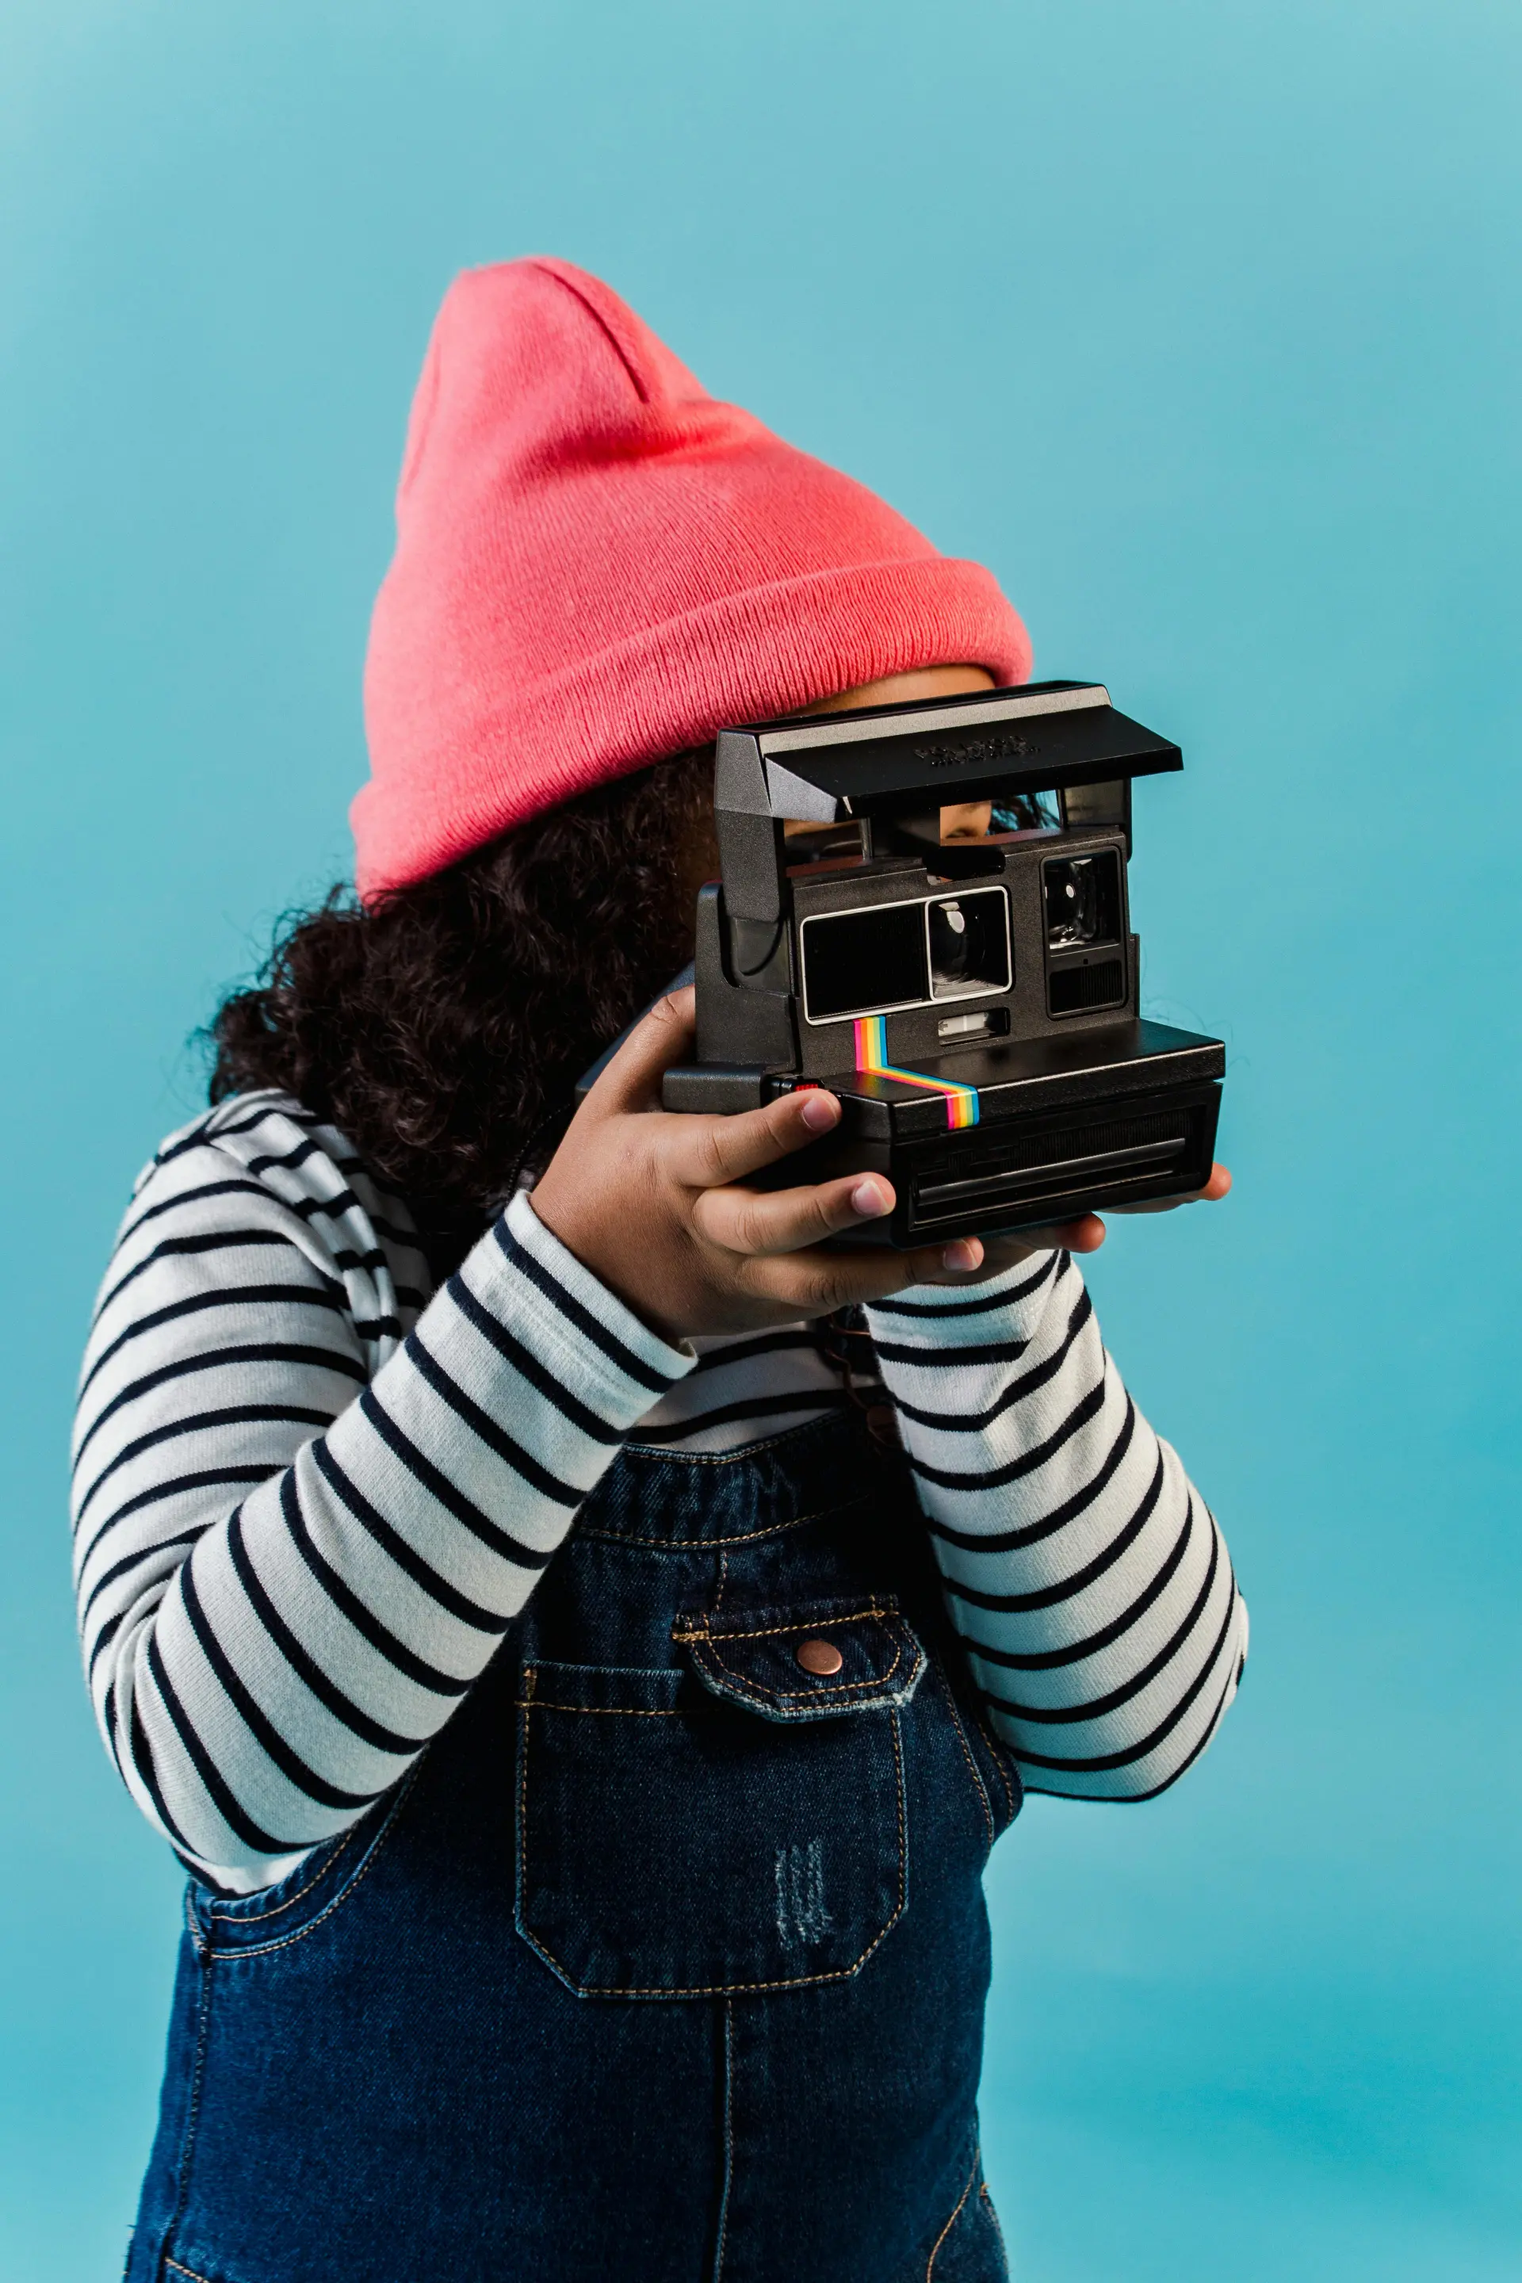
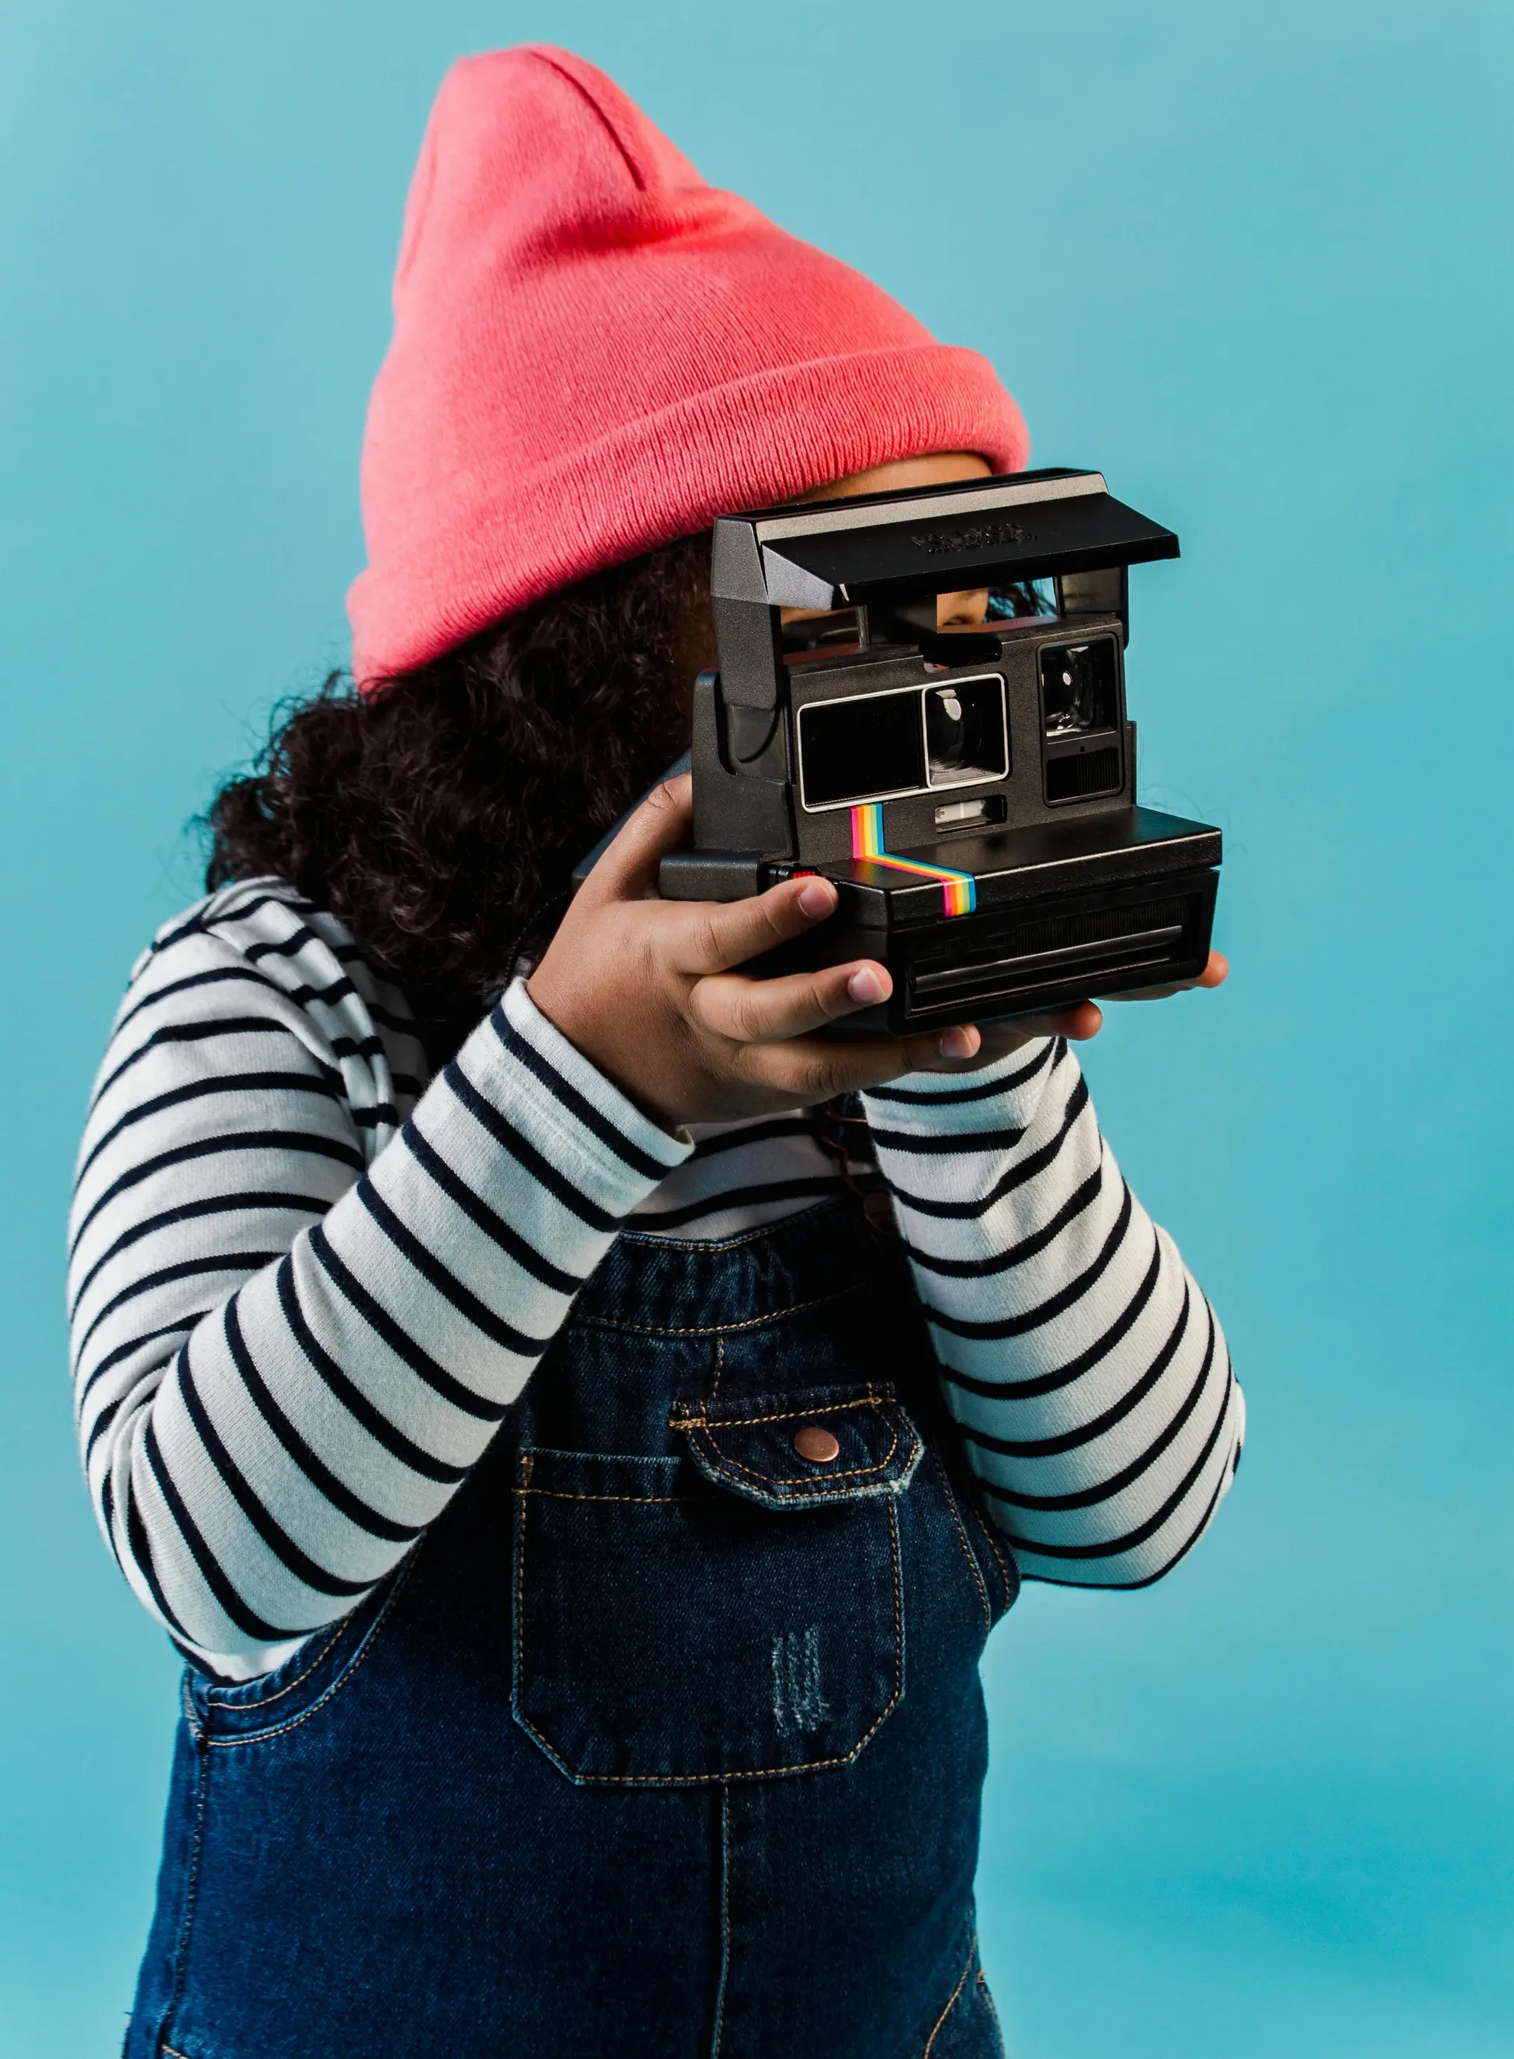
Style homepage for medium size devises

diff --git a/home/templates/home/index.html b/home/templates/home/index.html
@@ -30,14 +30,14 @@
 {% endblock %}
 
 {% block content %}
-    <!-- About and subscription section -->
+    <!-- About section -->
     <section id="about-subscription">
         <div class="container">
-            <div class="car-deck row">
+            <div class="row">
                 <div class="col-md-6 my-auto about">
                     <div class="card">
-                        <div class="card-body">
-                            <h2 class="card-title">
+                        <div class="card-body about-usp">
+                            <h2 class="card-title text-center about-us">
                                 About Us
                             </h2>
                             <p class="card-text about-reg">
@@ -49,97 +49,96 @@
                                 to explore our selection and find something truly special. Join us on this 
                                 journey through time and discover the magic of vintage.
                             </p>
-                            <p class="ml-3 mt-5 advantage">
+                            <p class="mt-5 advantage">
                                 <strong>In Order to Take Full Advantage of Our Site, Register Today and Enjoy These Exclusive Benefits:</strong>
                             </p>
                             <ul class="about-reg mt-5">
                                 <li>Special Offers:
                                     Gain access to exclusive special offers, including early bird discounts, flash sales, and unique deals that are not available to the general public.
                                 </li>
-                                <li>Personalized Discounts:
+                                <li class="mt-3">Personalized Discounts:
                                     Receive personalized discount codes and promotional offers tailored to your shopping habits, helping you save more on the items you love most.
                                 </li>
-                                <li>First Look at New Arrivals:
+                                <li class="mt-3">First Look at New Arrivals:
                                     Be the first to know about our latest products and get early access to new arrivals, ensuring you stay ahead of the trends.
                                 </li>
-                                <li>Reward Points Program:
+                                <li class="mt-3">Reward Points Program:
                                     Earn points every time you shop, leave a review, or refer a friend. Redeem these points for discounts on future purchases, giving you more reasons to shop with us.
                                 </li>
-                                <li>Hassle-Free Checkout:
+                                <li class="mt-3">Hassle-Free Checkout:
                                     Save your shipping and payment information for a quicker, easier checkout experience. Additionally, track your orders and view your purchase history all in one convenient place.
                                 </li>
                             </ul>
                         </div>
                     </div>
                 </div>
-                <div class="col-md-6 my-auto">
-                    <div class="card">
-                        <div class="card-body second-section">
-                            <div class="col-md-6 homeimg2">
-                                <img class="homepic2" src="{% static 'images/vintage-home.webp' %}" alt="Girl holding an old camera">
-                            </div>
-                        </div>
-                    </div>
+                <div class="col-md-6 my-auto homeimg2">
+                    <img class="homepic2" src="{% static 'images/vintage-home.webp' %}" alt="Girl holding an old camera">
                 </div>
-                <div class="col-md-6 my-auto">
-                    <div class="card">
-                        <div class="card-body subscribe" id="mc_embed_shell">
-                            <div class="subscribe-header">
-                                <h2 class="card-title">
-                                    Loved Our Products?
-                                </h2>
-                                <p class="card-text">
-                                    Get our latest arrivals, offers tips and much more. 
-                                </p>
-                            </div>
-                            <link href="//cdn-images.mailchimp.com/embedcode/classic-061523.css" rel="stylesheet" type="text/css">
-                            <style type="text/css">
-                                    #mc_embed_signup{background:#fff; false;clear:left; font:14px Helvetica,Arial,sans-serif; width: 600px;}
-                                    /* Add your own Mailchimp form style overrides in your site stylesheet or in this style block.
-                                    We recommend moving this block and the preceding CSS link to the HEAD of your HTML file. */
-                            </style>
-                            <div id="mc_embed_signup">
-                                <form action="https://herokuapp.us17.list-manage.com/subscribe/post?u=7719ad4a05a4dcedbd48b3364&amp;id=be208aabce&amp;f_id=00b088e2f0" method="post" id="mc-embedded-subscribe-form" name="mc-embedded-subscribe-form" class="validate" target="_blank">
-                                    <div id="mc_embed_signup_scroll"><h2>Subscribe</h2>
-                                        <div class="indicates-required">
-                                            <span class="asterisk">*</span> indicates required
-                                        </div>
-                                        <div class="mc-field-group">
-                                            <label for="mce-EMAIL">Email Address <span class="asterisk">*</span></label><input type="email" name="EMAIL" class="required email" id="mce-EMAIL" required="" value="">
-                                        </div>
-                                        <div id="mce-responses" class="clear foot">
-                                            <div class="response" id="mce-error-response" style="display: none;"></div>
-                                            <div class="response" id="mce-success-response" style="display: none;"></div>
-                                        </div>
-                                        <div style="position: absolute; left: -5000px;" aria-hidden="true">
-                                            /* real people should not fill this in and expect good things - do not remove this or risk form bot signups */
-                                            <input type="text" name="b_7719ad4a05a4dcedbd48b3364_be208aabce" tabindex="-1" value="">
-                                        </div>
-                                        <div class="optionalParent">
-                                            <div class="clear foot">
-                                                <input type="submit" name="subscribe" id="mc-embedded-subscribe" class="button" value="Subscribe">
-                                                <p style="margin: 0px auto;"><a href="http://eepurl.com/iQt5FM" title="Mailchimp - email marketing made easy and fun"><span style="display: inline-block; background-color: transparent; border-radius: 4px;"><img class="refferal_badge" src="https://digitalasset.intuit.com/render/content/dam/intuit/mc-fe/en_us/images/intuit-mc-rewards-text-dark.svg" alt="Intuit Mailchimp" style="width: 220px; height: 40px; display: flex; padding: 2px 0px; justify-content: center; align-items: center;"></span></a></p>
-                                            </div>
+            </div>
+        </div>
+    </section>
+    <!-- Subscription section -->
+    <section id="subscription">
+        <div class="row">
+            <div class="col-12 my-auto sub-col">
+                <div class="card sub-card">
+                    <div class="card-body subscribe" id="mc_embed_shell">
+                        <div class="subscribe-header">
+                            <h2 class="card-title">
+                                Loved Our Products?
+                            </h2>
+                            <p class="card-text">
+                                Get our latest arrivals, offers tips and much more. 
+                            </p>
+                        </div>
+                        <link href="//cdn-images.mailchimp.com/embedcode/classic-061523.css" rel="stylesheet" type="text/css">
+                        <style type="text/css">
+                                #mc_embed_signup{background:#fff; false;clear:left; font:14px Helvetica,Arial,sans-serif; width: 600px;}
+                                /* Add your own Mailchimp form style overrides in your site stylesheet or in this style block.
+                                We recommend moving this block and the preceding CSS link to the HEAD of your HTML file. */
+                        </style>
+                        <div id="mc_embed_signup">
+                            <form action="https://herokuapp.us17.list-manage.com/subscribe/post?u=7719ad4a05a4dcedbd48b3364&amp;id=be208aabce&amp;f_id=00b088e2f0" method="post" id="mc-embedded-subscribe-form" name="mc-embedded-subscribe-form" class="validate" target="_blank">
+                                <div id="mc_embed_signup_scroll"><h2>Subscribe</h2>
+                                    <div class="indicates-required">
+                                        <span class="asterisk">*</span> indicates required
+                                    </div>
+                                    <div class="mc-field-group">
+                                        <label for="mce-EMAIL">Email Address <span class="asterisk">*</span></label><input type="email" name="EMAIL" class="required email" id="mce-EMAIL" required="" value="">
+                                    </div>
+                                    <div id="mce-responses" class="clear foot">
+                                        <div class="response" id="mce-error-response" style="display: none;"></div>
+                                        <div class="response" id="mce-success-response" style="display: none;"></div>
+                                    </div>
+                                    <div style="position: absolute; left: -5000px;" aria-hidden="true">
+                                        /* real people should not fill this in and expect good things - do not remove this or risk form bot signups */
+                                        <input type="text" name="b_7719ad4a05a4dcedbd48b3364_be208aabce" tabindex="-1" value="">
+                                    </div>
+                                    <div class="optionalParent">
+                                        <div class="clear foot">
+                                            <input type="submit" name="subscribe" id="mc-embedded-subscribe" class="button" value="Subscribe">
+                                            <p style="margin: 0px auto;"><a href="http://eepurl.com/iQt5FM" title="Mailchimp - email marketing made easy and fun"><span style="display: inline-block; background-color: transparent; border-radius: 4px;"><img class="refferal_badge" src="https://digitalasset.intuit.com/render/content/dam/intuit/mc-fe/en_us/images/intuit-mc-rewards-text-dark.svg" alt="Intuit Mailchimp" style="width: 220px; height: 40px; display: flex; padding: 2px 0px; justify-content: center; align-items: center;"></span></a></p>
                                         </div>
                                     </div>
-                                </form>
-                            </div>
-                            <script type="text/javascript" src="//s3.amazonaws.com/downloads.mailchimp.com/js/mc-validate.js"></script>
-                            <script type="text/javascript">
-                            (function($) {
-                                window.fnames = new Array(); 
-                                window.ftypes = new Array();
-                                fnames[0]='EMAIL';ftypes[0]='email';
-                                fnames[1]='FNAME';ftypes[1]='text';
-                                fnames[2]='LNAME';ftypes[2]='text';
-                                fnames[3]='ADDRESS';ftypes[3]='address';
-                                fnames[4]='PHONE';ftypes[4]='phone';
-                                fnames[5]='BIRTHDAY';
-                                ftypes[5]='birthday';
-                                }(jQuery));
-                                var $mcj = jQuery.noConflict(true);
-                            </script>
+                                </div>
+                            </form>
                         </div>
+                        <script type="text/javascript" src="//s3.amazonaws.com/downloads.mailchimp.com/js/mc-validate.js"></script>
+                        <script type="text/javascript">
+                        (function($) {
+                            window.fnames = new Array(); 
+                            window.ftypes = new Array();
+                            fnames[0]='EMAIL';ftypes[0]='email';
+                            fnames[1]='FNAME';ftypes[1]='text';
+                            fnames[2]='LNAME';ftypes[2]='text';
+                            fnames[3]='ADDRESS';ftypes[3]='address';
+                            fnames[4]='PHONE';ftypes[4]='phone';
+                            fnames[5]='BIRTHDAY';
+                            ftypes[5]='birthday';
+                            }(jQuery));
+                            var $mcj = jQuery.noConflict(true);
+                        </script>
                     </div>
                 </div>
             </div>

diff --git a/static/css/base.css b/static/css/base.css
@@ -74,16 +74,24 @@ i {
     margin-bottom: 0 !important;
 }
 
+.about-us {
+    font-weight: bolder;
+}
+
+.about-usp {
+    padding: 0;
+}
+
 .about-reg {
     text-align: justify;
-    font-size: 20px;
+    font-size: 25px;
 }
 
 .subscribe-header {
     margin-left: 18px;
 }
 
-. subscribe {
+.subscribe {
     width: 100%;
 }
 
@@ -98,14 +106,23 @@ i {
 }
 
 .homepic2 {
-    width: 75%;
+    width: 100%;
     height: auto;
 
 }
 
 .advantage {
-    font-size: larger;
+    font-size: 25px;
 }
+
+#mc_embed_signup {
+    background: #fff;
+      background-color: rgb(255, 255, 255);
+      background-image: none;
+    clear: left;
+    font: 1rem Open Sans, sans-serif;
+    max-width: 600px;
+  }
 
 /* FAQs page */
 .answers {
@@ -451,3 +468,5 @@ input[name='q']::placeholder {
         padding: 20px;
     }
 }
+
+
